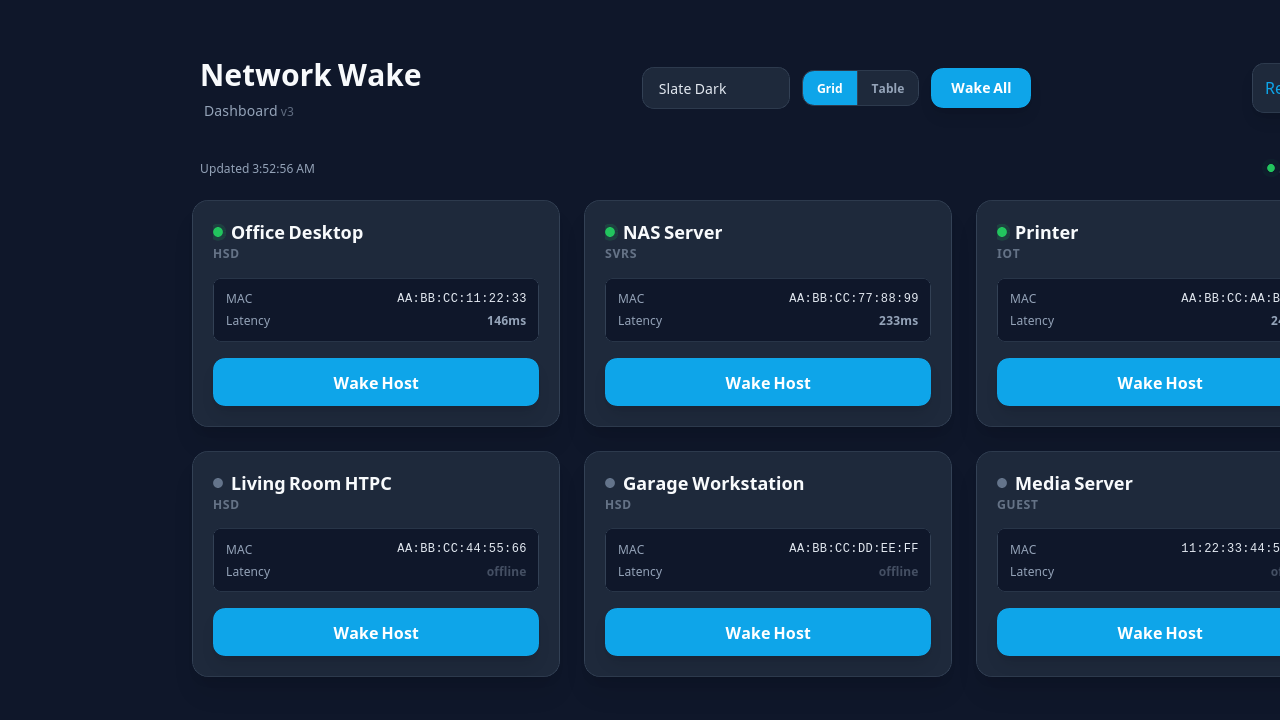
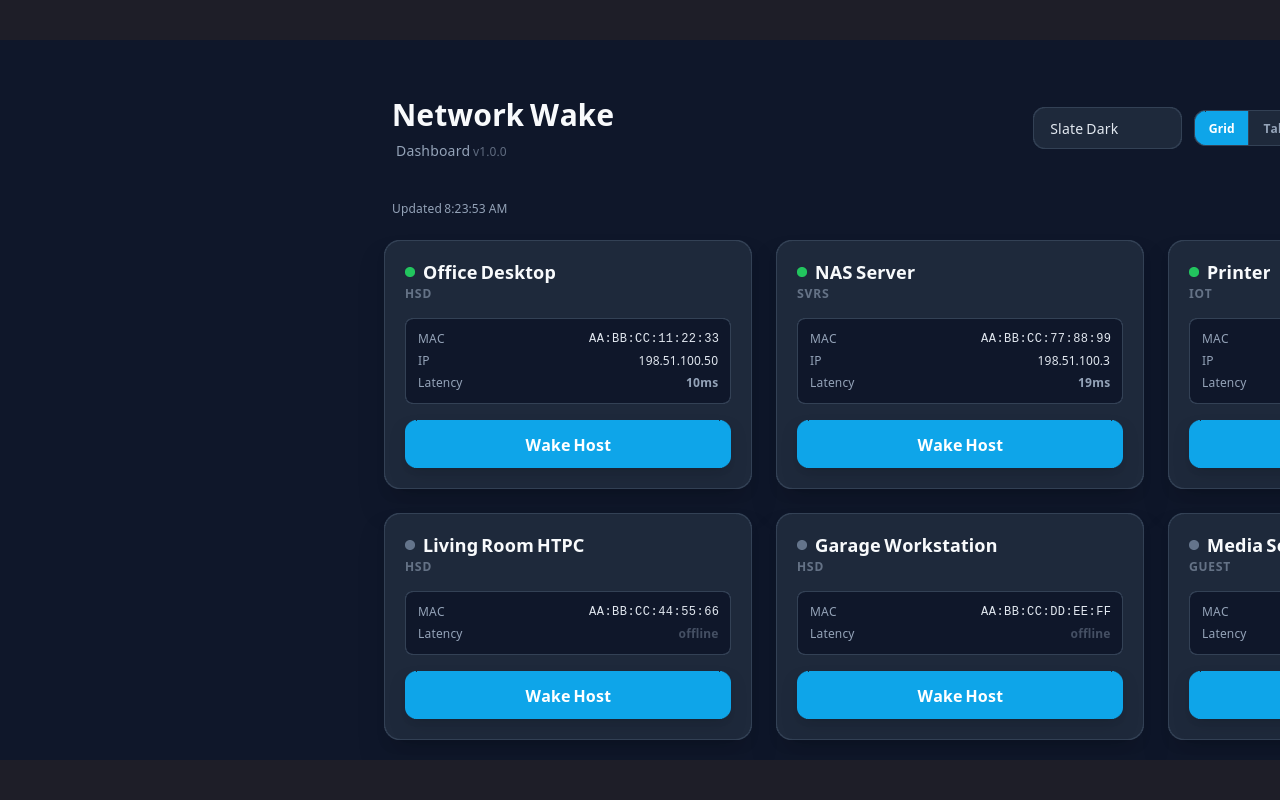
Dockerfile: copy lib/ directory (fixes scheduler missing in image)
- Add COPY lib/ ./lib/ to Dockerfile so lib/scheduler.js is included
  in the production image instead of crashing at runtime
- Update HTML version tag from v3 to v1.0.0
- Update README: remove v3/v2 changelog, add scheduler docs,
  update project structure, freshen screenshots at 16:10
- New screenshots at 1280x800 (letterboxed)

diff --git a/public/index.html b/public/index.html
@@ -401,7 +401,7 @@
         <header class="flex flex-wrap justify-between items-center gap-4 mb-10 px-2">
             <div>
                 <h1 class="text-3xl font-bold" style="color: var(--text-heading)">Network Wake</h1>
-                <p class="text-sm mt-2 ml-1" style="color: var(--text-muted)">Dashboard <span id="version-tag" class="text-xs opacity-60">v3</span></p>
+                <p class="text-sm mt-2 ml-1" style="color: var(--text-muted)">Dashboard <span id="version-tag" class="text-xs opacity-60">v1.0.0</span></p>
             </div>
 
             <div class="flex flex-wrap items-center gap-3 justify-start sm:justify-end">

diff --git a/README.md b/README.md
@@ -1,23 +1,8 @@
-# OPNsense WOL v3
+# OPNsense WOL
 
 ![Dashboard Grid View](./public/screenshot-grid.png) *Grid view* | ![Dashboard Table View](./public/screenshot-table.png) *Table view*
 
-A lightweight web dashboard for waking devices on your network through the OPNsense WOL plugin API. v3 adds a compact table/grid view toggle and live ping latency (RTT) display. Built with Express.js and Tailwind CSS.
-
-## What's New in v3
-
-- **Table/Grid View Toggle** — Switch between compact card grid and data-table view. Table view shows all hosts in sortable columns with Host, Interface, MAC, IP, Latency, Last Wake, and Action columns. Preference persisted in localStorage.
-- **Ping Latency (RTT)** — Live round-trip time for every online host, fetched via system `ping` and cached for 60 seconds. Color-coded badges (fast/green, slow/yellow, timeout/grey) in both views.
-- Everything from v2.3 is preserved: ARP-based host status, parallel data loading, theme selector, wake history, demo mode, and Docker support.
-
-### What's New in v2.3 (ARP-Based Status)
-
-- **ARP-Based Status** — Host online/offline is determined directly from the OPNsense ARP table (MAC-level presence). No IP mapping, no ping, no firewall rules.
-- **No INTERFACE_MAP** — Friendly interface names (e.g. "HSD", "SVRS") come directly from the OPNsense WOL API's `%interface` field — no manual mapping.
-- **No HOST_IPS** — Status works automatically for every WOL host, no IP configuration required.
-- **Parallel Data Loading** — Host list and ARP status fetch concurrently for faster page loads.
-- **Status Embedded in Hosts** — Online indicators are part of `/api/hosts` response — no separate `/api/status` call.
-- **Minimal Privileges** — Only **WOL** privilege needed (covers host listing, wake, and ARP status)
+A lightweight web dashboard for waking devices on your network through the OPNsense WOL plugin API. Features live ping latency (RTT), a compact table/grid view toggle, and ARP-based host status. Built with Express.js and Tailwind CSS.
 
 ## Features
 
@@ -33,9 +18,9 @@ A lightweight web dashboard for waking devices on your network through the OPNse
 | | **Wake History** | Tracks when each host was last woken |
 | | **Responsive Design** | Card layout adapts from 1 to 3 columns; table view is scrollable on mobile |
 | | **Auto-Refresh** | Polls OPNsense and refreshes status every 30 seconds; RTT re-fetches every 30s |
+| | **Scheduled Wake** | Schedule automatic wake-ups by time and day-of-week |
 | | **Sanitized Display** | Host descriptions and MAC addresses are HTML-escaped |
 | | **Dockerized** | Production Docker build with Alpine Node.js |
-| | **CI/CD** | Gitea Actions workflow builds and publishes to container registry on version tags |
 
 ## How It Works
 
@@ -50,6 +35,8 @@ A lightweight web dashboard for waking devices on your network through the OPNse
                    POST /api/wake-all       │  POST /api/wol/wol/          │
                    GET  /api/ping/:uuid     │    searchHost / set          │
                    GET  /api/ping           └──────────────────────────────┘
+                   GET  /api/schedules
+                   POST /api/schedules
 ```
 
 The Express server acts as a bridge between the browser and OPNsense:
@@ -58,6 +45,7 @@ The Express server acts as a bridge between the browser and OPNsense:
 2. **Wake host** — sends magic packet via OPNsense `wol/set`
 3. **Status** — embedded in `/api/hosts` response via the ARP lookup — no separate status endpoint
 4. **Ping latency** — system `ping` to each host's IP, cached in memory for 60 seconds
+5. **Scheduled wake** — in-process scheduler checks enabled schedules every 60 seconds and fires wake requests
 
 ## Getting Started
 
@@ -89,6 +77,7 @@ The server is configured entirely through environment variables:
 | `PORT` | ❌ | `3000` | Server listen port |
 | `VERIFY_SSL` | ❌ | `false` | Set to `"true"` to verify SSL cert |
 | `DEMO_MODE` | ❌ | `false` | Set to `"true"` to run with mock data — no OPNsense needed |
+| `DATA_DIR` | ❌ | `./data` | Directory for persistent data (schedules, wake history) |
 
 ### Demo Mode
 
@@ -99,7 +88,7 @@ DEMO_MODE=true node server.js
 # → http://localhost:3000
 ```
 
-RTT is simulated with random values (50–500ms) for online hosts in demo mode.
+RTT is simulated with random values (5–20ms) for online hosts in demo mode.
 
 ### Development
 
@@ -150,6 +139,10 @@ Or edit `docker-compose.yml` directly to set environment variables for productio
 | `GET` | `/api/ping` | Batch ping — returns cached RTT for all hosts |
 | `POST` | `/api/wake/:uuid` | Send wake signal to a host by UUID |
 | `POST` | `/api/wake-all` | Send wake signal to all configured hosts |
+| `GET` | `/api/schedules` | List all scheduled wake tasks |
+| `POST` | `/api/schedules` | Create a scheduled wake |
+| `PUT` | `/api/schedules/:id` | Update a scheduled wake |
+| `DELETE` | `/api/schedules/:id` | Delete a scheduled wake |
 | `GET` | `/health` | Health check endpoint |
 
 ## Themes
@@ -178,17 +171,19 @@ Your view preference persists in localStorage.
 ## Project Structure
 
 ```
-├── server.js            # Express server (API proxy + ARP-based status + ping)
+├── server.js              # Express server (API proxy + scheduler + ping)
+├── lib/
+│   └── scheduler.js       # In-process scheduled wake module
 ├── public/
-│   ├── index.html       # Frontend (Tailwind CSS via CDN, themes, wake history)
+│   ├── index.html         # Frontend (Tailwind CSS via CDN, themes, wake history)
 │   ├── screenshot-grid.png
 │   └── screenshot-table.png
-├── Dockerfile           # Production build (Alpine Node.js)
-├── docker-compose.yml   # One-command demo or production deployment
-├── .env.example         # Environment variable template
+├── Dockerfile             # Production build (Alpine Node.js)
+├── docker-compose.yml     # One-command demo or production deployment
+├── .env.example           # Environment variable template
 ├── .dockerignore
 ├── package.json
-└── .gitea/workflows/    # CI/CD (Docker build + publish on v* tags)
+└── .gitea/workflows/      # CI/CD (Docker build + publish on v* tags)
 ```
 
 ## License